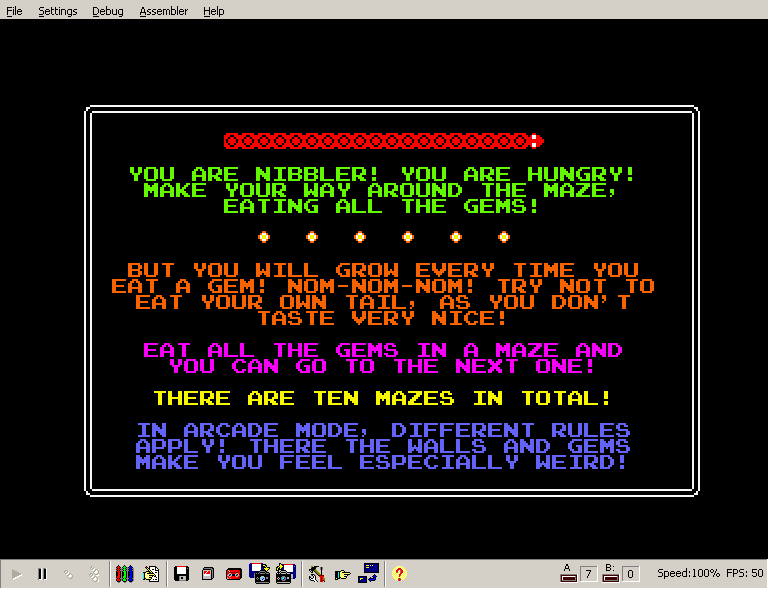
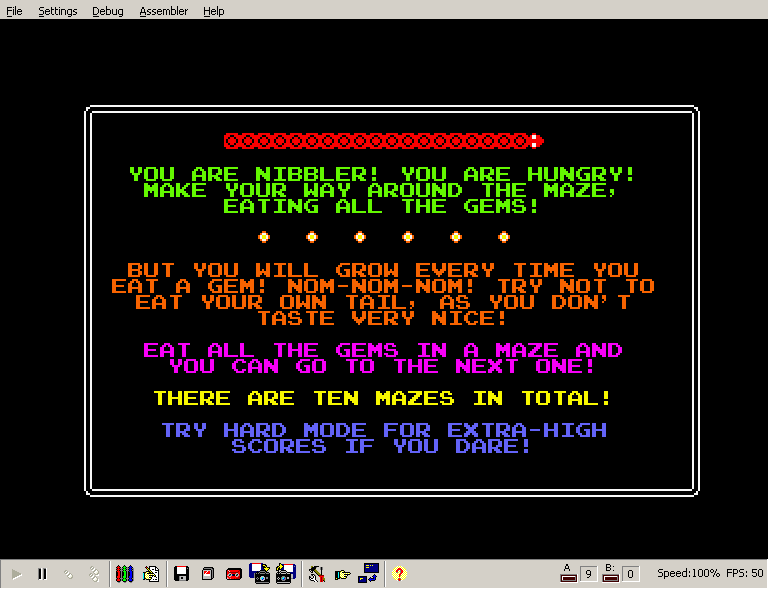
Version 0.7

Changed region(s): [[0.1562, 0.7029, 0.8438, 0.7946]]

diff --git a/src/game.c b/src/game.c
@@ -174,7 +174,7 @@ static bool g_play_level(const u8 level, const u8 gems) {
 	u8 c_offset = g_options[1] ? 0 : 2;
 	u8 gems_left = gems;
 	dir_t dir = DIR_EAST;
-	const u8 diff_c = g_options[0] ? 4 : 2;
+	const u8 diff_c = g_options[0] ? 5 : 2;
 	const u8 diff_mod = g_options[0] ? 1 : 10;
 
 	static const u16 controls[4][4] = {

diff --git a/README.md b/README.md
@@ -8,9 +8,8 @@ Coded in C using the fantastic [CPCTelera library](https://lronaldo.github.io/cp
 
 ![](/promo/loading.png)
 
-**Five level Demo version (v0.7) fully playable**. The full version will also have:
+**Demo version (v0.7) fully playable**. The full version will also have:
 
-* 10+ Fiendish Levels
 * Sound Effects and Music
 * Enhanced Graphics and Animations
 
@@ -37,6 +36,7 @@ The basis for this remake is the original port by Mosaik Software available [her
 *Version 0.7 (12/12/2023)*
 
 * Added a difficulty toggle
+* Added the remaining levels (to make 10 in total)
 
 *Version 0.6 (10/12/2023)*
 
